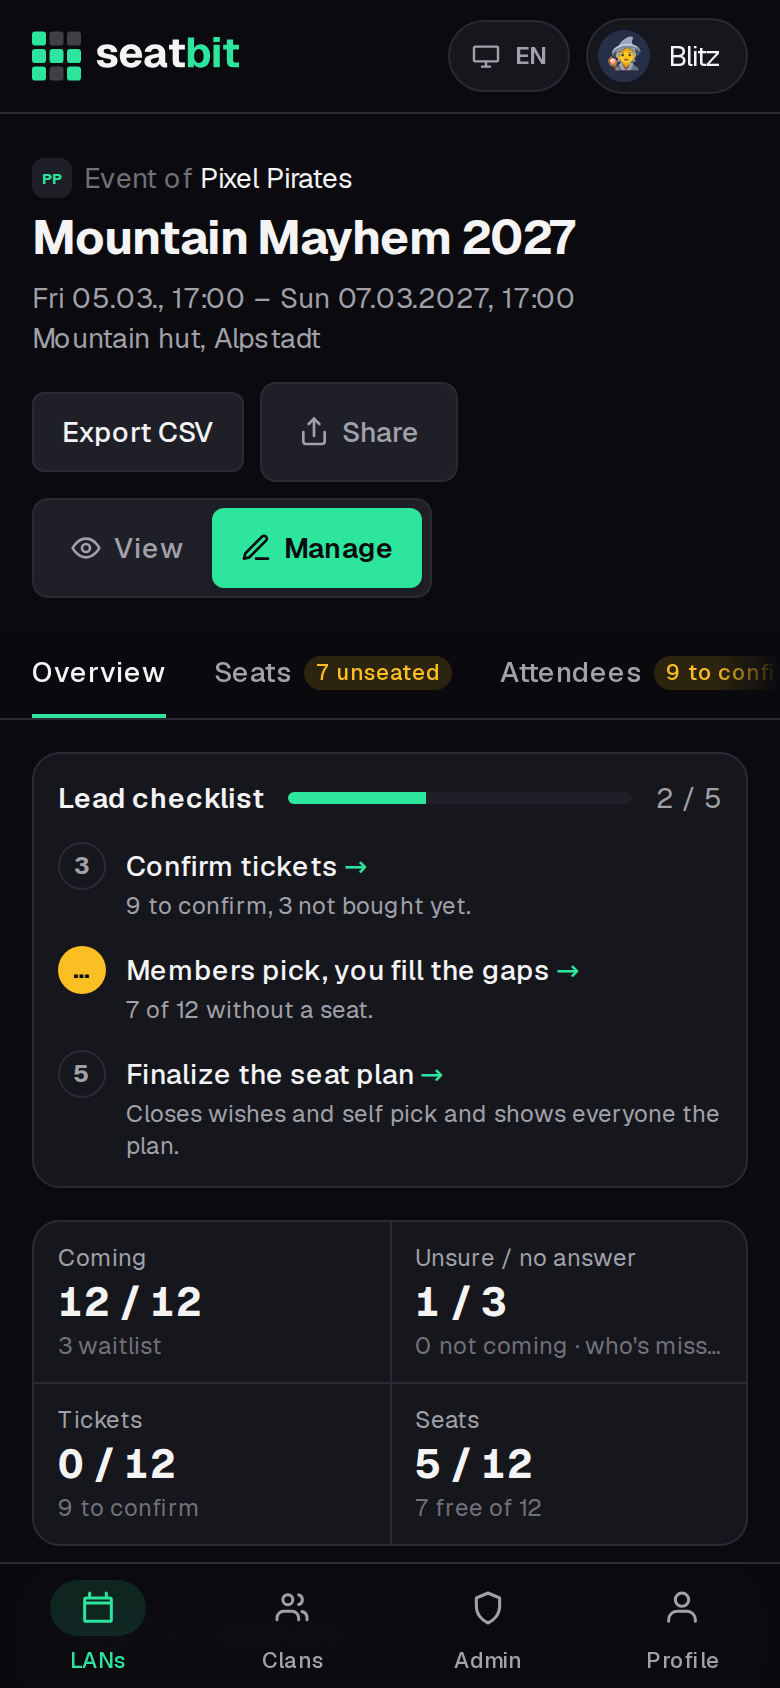
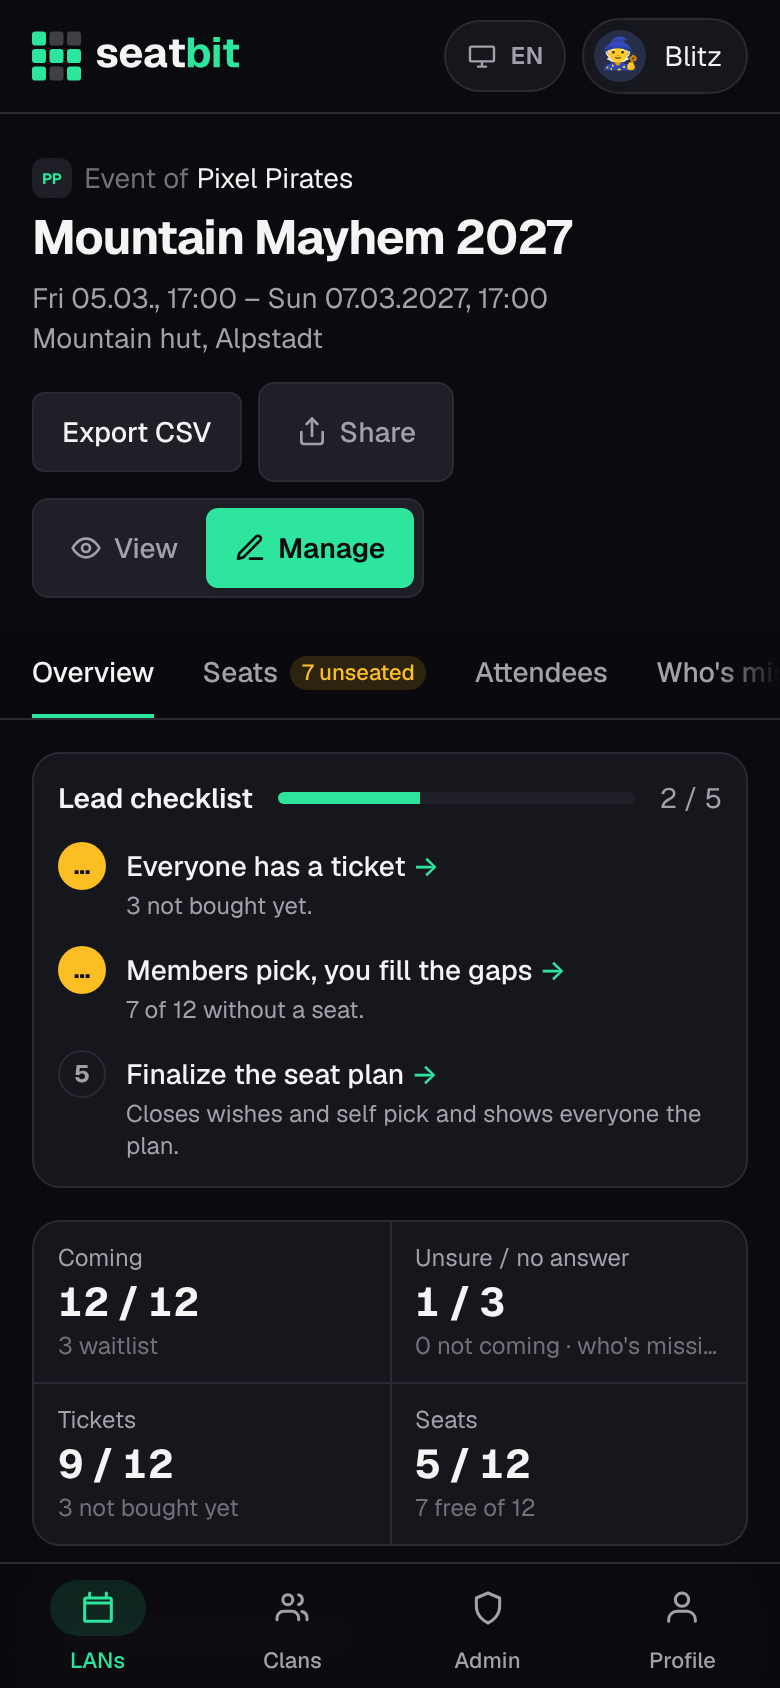
Tickets are trust based: a member's "I have my ticket" counts
No lead confirmation step any more: the member checklist ticket step is
done once the member ticks it, the lead checklist waits only for people
without a ticket, Who's missing drops "ticket to confirm", and the
Attendees badge, filter and pills follow. A lead's Ticket ok tick sets
the ticket for someone (e.g. a guest).

Claude-Session: https://claude.ai/code/session_01Mn3pyoKV5mVXfXu1PoqMQW

diff --git a/src/app/lans/[id]/manage/page.tsx b/src/app/lans/[id]/manage/page.tsx
@@ -165,8 +165,8 @@ export default async function ManageLanPage({ params, searchParams }: PageProps<
   const wishChecks = checkWishes(seats, planPeople, (uid) => names.get(uid) ?? "?", t);
   const wishNotes = going.filter((r) => r.wishNote);
   const now = new Date();
-  const ticketsConfirmed = going.filter((r) => r.paid).length;
-  const ticketsReported = going.filter((r) => !r.paid && r.ticketBought).length;
+  // Trust based: the member's own "I have my ticket" counts.
+  const withTicket = going.filter((r) => r.ticketBought || r.paid).length;
   const seated = going.filter((r) => seatOf.has(r.userId)).length;
   const freeSeats = seats.filter((s) => !s.userId && !s.locked).length;
   const count = (st: string) => rows.filter((r) => r.status === st).length;
@@ -193,8 +193,7 @@ export default async function ManageLanPage({ params, searchParams }: PageProps<
   const leadSteps = buildLeadChecklist({
     lan: l,
     going: going.length,
-    ticketsToConfirm: ticketsReported,
-    ticketsConfirmed,
+    withTicket,
     seats: seats.length,
     seated,
     booked: bookedCount,
@@ -384,9 +383,7 @@ export default async function ManageLanPage({ params, searchParams }: PageProps<
           id,
           label: t(label),
           badge:
-            id === "attendees" && ticketsReported
-              ? t("manage.badge.toConfirm", { count: ticketsReported })
-              : id === "missing" && memberMissing
+            id === "missing" && memberMissing
                 ? `${memberMissing}`
                 : id === "seats" && swapsToApprove
                   ? t("manage.badge.swaps", { count: swapsToApprove })
@@ -447,8 +444,8 @@ export default async function ManageLanPage({ params, searchParams }: PageProps<
             />
             <Stat
               label={t("bot.tickets")}
-              value={`${ticketsConfirmed} / ${going.length}`}
-              sub={t("manage.badge.toConfirm", { count: ticketsReported })}
+              value={`${withTicket} / ${going.length}`}
+              sub={t("leadSteps.notBought", { count: going.length - withTicket })}
               href={`/lans/${l.id}/manage?tab=attendees`}
             />
             <Stat
@@ -589,7 +586,7 @@ export default async function ManageLanPage({ params, searchParams }: PageProps<
                       name: names.get(r.userId) ?? "?",
                       lanAccount: lanIds.get(r.userId) || undefined,
                       profileUrl: profileLink(profilePat, lanIds.get(r.userId)) ?? undefined,
-                      ticket: r.paid ? ("ok" as const) : r.ticketBought ? ("reported" as const) : ("open" as const),
+                      ticket: r.paid || r.ticketBought ? ("ok" as const) : ("open" as const),
                       wishes: w ? { ok: w.ok, missed: w.missed } : undefined,
                     };
                   })

diff --git a/src/lib/lead-checklist.ts b/src/lib/lead-checklist.ts
@@ -8,9 +8,8 @@ export type LeadStep = { key: string; title: string; state: StepState; hint: str
 export function buildLeadChecklist(input: {
   lan: Lan;
   going: number;
-  /** Tickets reported by members, waiting for a lead to confirm. */
-  ticketsToConfirm: number;
-  ticketsConfirmed: number;
+  /** Coming and said they have a ticket (or a lead ticked it). */
+  withTicket: number;
   seats: number;
   seated: number;
   /** Seated people whose seat a lead ticked as booked on the event site. */
@@ -21,7 +20,7 @@ export function buildLeadChecklist(input: {
   t?: T;
 }): LeadStep[] {
   const t = input.t ?? makeT("en");
-  const { lan: l, going, ticketsToConfirm, ticketsConfirmed, seats, seated, booked, spotsToFill, swapsToApprove } = input;
+  const { lan: l, going, withTicket, seats, seated, booked, spotsToFill, swapsToApprove } = input;
   const base = `/lans/${l.id}/manage`;
   const final = !!l.seatsPublishedAt;
   const steps: LeadStep[] = [];
@@ -60,22 +59,18 @@ export function buildLeadChecklist(input: {
     });
   }
 
-  const openTickets = going - ticketsConfirmed - ticketsToConfirm;
+  // Trust based: a member's "I have my ticket" counts, the leads only wait for the rest.
+  const openTickets = going - withTicket;
   steps.push({
     key: "tickets",
     title: t("leadSteps.tickets"),
-    state: going > 0 && ticketsConfirmed === going ? "done" : ticketsToConfirm > 0 ? "todo" : "pending",
+    state: going > 0 && openTickets === 0 ? "done" : "pending",
     hint:
       going === 0
         ? t("leadSteps.nobody")
-        : ticketsConfirmed === going
+        : openTickets === 0
           ? t("leadSteps.allConfirmed", { count: going })
-          : [
-              ticketsToConfirm > 0 && t("leadSteps.toConfirm", { count: ticketsToConfirm }),
-              openTickets > 0 && t("leadSteps.notBought", { count: openTickets }),
-            ]
-              .filter(Boolean)
-              .join(", ") + ".",
+          : t("leadSteps.notBought", { count: openTickets }) + ".",
     href: `${base}?tab=attendees`,
   });
 

diff --git a/src/components/attendance-table.tsx b/src/components/attendance-table.tsx
@@ -55,8 +55,7 @@ const statusOrder: Record<AttendanceStatus, number> = { going: 0, waitlist: 1, m
 /** Extra "who still needs something" filters on top of the status chips. */
 const needs = {
   all: { label: "attendees.need.all", test: () => true },
-  ticketOpen: { label: "attendees.need.ticketOpen", test: (r: AttendanceRow) => r.status !== "declined" && !r.paid },
-  ticketReported: { label: "attendees.need.ticketReported", test: (r: AttendanceRow) => r.ticketBought && !r.paid },
+  ticketOpen: { label: "attendees.need.ticketOpen", test: (r: AttendanceRow) => r.status !== "declined" && !r.paid && !r.ticketBought },
   noSeat: { label: "attendees.need.noSeat", test: (r: AttendanceRow) => r.status === "going" && !r.seatId },
   notBooked: {
     label: "attendees.need.notBooked",
@@ -293,14 +292,13 @@ export function AttendanceTable({
               <label className="col-span-2 flex min-h-10 cursor-pointer items-center gap-2 rounded-md border border-line px-3 py-2 text-sm sm:col-span-1 sm:self-end lg:self-auto">
                 <input
                   type="checkbox"
-                  key={String(r.paid)}
-                  defaultChecked={r.paid}
+                  key={String(r.paid || r.ticketBought)}
+                  defaultChecked={r.paid || r.ticketBought}
                   onChange={(e) => run(() => adminSetPaid(r.id, e.target.checked))}
                   className="h-5 w-5 accent-bit"
                 />
                 <span>
                   {t("attendees.ticketOk")}
-                  {r.ticketBought && !r.paid && <span className="ml-1 text-xs text-warn">({t("attendees.reported")})</span>}
                 </span>
               </label>
               <label className="block">

diff --git a/src/i18n/messages/de.ts b/src/i18n/messages/de.ts
@@ -735,9 +735,9 @@ export const de: Messages = {
     seatsHint: "Trag den Platzblock ein, den das Event der Gruppe gegeben hat.",
     waitlist: "Leute von der Warteliste nachrücken lassen",
     spotsFree: { one: "Ein Platz ist frei.", other: "{count} Plätze sind frei." },
-    tickets: "Tickets bestätigen",
+    tickets: "Alle haben ein Ticket",
     nobody: "Noch kommt niemand.",
-    allConfirmed: "Alle {count} bestätigt.",
+    allConfirmed: "Alle {count} haben eins.",
     toConfirm: "{count} zu bestätigen",
     notBought: "{count} noch nicht gekauft",
     assign: "Allen einen Platz geben",
@@ -797,8 +797,7 @@ export const de: Messages = {
     clearFilters: "Filter zurücksetzen",
     need: {
       all: "Alle",
-      ticketOpen: "Ticket nicht bestätigt",
-      ticketReported: "Ticket gemeldet, bestätigen",
+      ticketOpen: "Noch kein Ticket",
       noSeat: "Kommt, noch ohne Platz",
       notBooked: "Platz nicht auf Event-Seite gebucht",
       noLanId: "Keine LAN-ID",
@@ -2199,8 +2198,7 @@ export const de: Messages = {
     nick: { title: "Gib deinen Nickname an", done: "Nick ist gesetzt.", todo: "Gib den Nick an, der auf dem Sitzplan stehen soll." },
     ticket: {
       title: "Kauf dein Ticket",
-      done: "Von den Leads bestätigt.",
-      pending: "Wartet auf Bestätigung durch einen Lead.",
+      done: "Du hast dein Ticket.",
       todo: "Kauf es beim Event und hak es dann hier ab.",
       waitlist: "Warte mit dem Kauf, bis du von der Warteliste nachrückst.",
     },

diff --git a/src/i18n/messages/en.ts b/src/i18n/messages/en.ts
@@ -734,9 +734,9 @@ export const en = {
     seatsHint: "Add the seat block the event gave the group.",
     waitlist: "Move people up from the waitlist",
     spotsFree: { one: "A spot is free.", other: "{count} spots are free." },
-    tickets: "Confirm tickets",
+    tickets: "Everyone has a ticket",
     nobody: "Nobody is coming yet.",
-    allConfirmed: "All {count} confirmed.",
+    allConfirmed: "All {count} have one.",
     toConfirm: "{count} to confirm",
     notBought: "{count} not bought yet",
     assign: "Seat everyone",
@@ -796,8 +796,7 @@ export const en = {
     clearFilters: "Clear filters",
     need: {
       all: "Everyone",
-      ticketOpen: "Ticket not confirmed",
-      ticketReported: "Ticket reported, confirm it",
+      ticketOpen: "No ticket yet",
       noSeat: "Coming, no seat yet",
       notBooked: "Seat not booked on event site",
       noLanId: "No LAN ID",
@@ -2185,8 +2184,7 @@ export const en = {
     nick: { title: "Give your nickname", done: "Nick is set.", todo: "Add the nick you want on the seat plan." },
     ticket: {
       title: "Buy your ticket",
-      done: "Confirmed by the leads.",
-      pending: "Waiting for a lead to confirm.",
+      done: "You have your ticket.",
       todo: "Buy it from the event, then tick it off here.",
       waitlist: "Wait until you move up from the waitlist before buying one.",
     },

diff --git a/src/app/lans/[id]/page.tsx b/src/app/lans/[id]/page.tsx
@@ -534,10 +534,8 @@ export default async function LanPage({ params, searchParams }: PageProps<"/lans
                   <div className="flex justify-between">
                     <dt className="text-muted">{t("event.yourTicket")}</dt>
                     <dd>
-                      {my.paid ? (
-                        <Pill tone="emerald">{t("event.ticketConfirmed")}</Pill>
-                      ) : my.ticketBought ? (
-                        <Pill tone="amber">{t("event.ticketReported")}</Pill>
+                      {my.paid || my.ticketBought ? (
+                        <Pill tone="emerald">{t("event.ticketOk")}</Pill>
                       ) : (
                         <Pill tone="red">{t("event.ticketOpen")}</Pill>
                       )}
@@ -731,7 +729,7 @@ function AttendeeList({
           </a>
         )}
         {seatOf.get(a.userId) && <Pill>{seatOf.get(a.userId)}</Pill>}
-        {showPaid && (a.paid ? <Pill tone="emerald">{t("event.ticketOk")}</Pill> : a.ticketBought ? <Pill tone="amber">{t("event.reported")}</Pill> : <Pill tone="red">{t("event.noTicket")}</Pill>)}
+        {showPaid && (a.paid || a.ticketBought ? <Pill tone="emerald">{t("event.ticketOk")}</Pill> : <Pill tone="red">{t("event.noTicket")}</Pill>)}
       </span>
     </li>
   );

diff --git a/src/app/actions.ts b/src/app/actions.ts
@@ -495,7 +495,8 @@ export async function adminSetPaid(attendanceId: string, paid: boolean) {
   const a = db.select().from(attendance).where(eq(attendance.id, attendanceId)).get();
   if (!a) return;
   const me = await requireLanManager(a.lanId);
-  db.update(attendance).set({ paid }).where(eq(attendance.id, attendanceId)).run();
+  // Trust based: the lead's tick is the same as the member's "I have my ticket" (e.g. for a guest), not a confirmation step.
+  db.update(attendance).set({ paid, ticketBought: paid }).where(eq(attendance.id, attendanceId)).run();
   if (a.paid !== paid) auditLan(mustGetLan(a.lanId), me.id, "ticket.confirm", { targetUserId: a.userId, data: { paid } });
   refreshLanMessagesSoon(a.lanId);
   lanPath(a.lanId);

diff --git a/src/lib/checklist.ts b/src/lib/checklist.ts
@@ -66,12 +66,11 @@ export function buildChecklist(input: {
   steps.push({
     key: "ticket",
     title: t("checklist.ticket.title"),
-    state: a?.paid ? "done" : a?.ticketBought ? "pending" : "todo",
-    hint: a?.paid
+    // Trust based: the member's own "I have my ticket" is enough, no lead confirmation needed.
+    state: hasTicket ? "done" : "todo",
+    hint: hasTicket
       ? t("checklist.ticket.done")
-      : a?.ticketBought
-        ? t("checklist.ticket.pending")
-        : a?.status === "waitlist"
+      : a?.status === "waitlist"
           ? t("checklist.ticket.waitlist")
           : t("checklist.ticket.todo"),
   });

diff --git a/src/lib/missing.ts b/src/lib/missing.ts
@@ -143,9 +143,8 @@ export function whoIsMissing(l: Lan): MissingGroup[] {
     }
     for (const r of rows) {
       if (r.status !== "going" && r.status !== "waitlist") continue;
-      // Waitlisted people aren't chased for a ticket, but one they reported still needs confirming.
+      // Waitlisted people aren't chased for a ticket. Trust based: a reported ticket needs no confirming.
       if (!r.paid && !r.ticketBought && r.status === "going") add("ticket", r.userId);
-      else if (!r.paid && r.ticketBought) add("confirm", r.userId);
     }
     for (const r of going) {
       if (!withNick.has(r.userId)) add("nick", r.userId);

diff --git a/docs/features/attendance.md b/docs/features/attendance.md
@@ -2,7 +2,7 @@
 
 Members answer whether they come, work through their checklist and report their ticket; leads see everyone in one list.
 
-**Who:** members answer; leads confirm tickets and can change any answer · **Where:** the event page (top card); *Manage → Attendees*
+**Who:** members answer and tick off their ticket; leads can change any answer · **Where:** the event page (top card); *Manage → Attendees*
 
 <div class="phones" markdown>
 <figure markdown>
@@ -43,7 +43,7 @@ When someone stops coming (or a lead raises the spots), what happens depends on 
 
 Turning *Next in line moves up* back on fills the free spots right away.
 
-People on the waitlist get no ticket reminders or nudges, and their checklist says to wait with buying one until they move up: without a spot in the group's block a ticket may be wasted money. If they already bought one, they can still tick it off and the leads can confirm it.
+People on the waitlist get no ticket reminders or nudges, and their checklist says to wait with buying one until they move up: without a spot in the group's block a ticket may be wasted money. If they already bought one, they can still tick it off.
 
 While people are waiting, a new *Coming* answer always queues up behind them, even when a spot is free, so nobody jumps the line.
 
@@ -74,7 +74,7 @@ Your checklist sits above the tabs on every tab of the event, on the LANs list (
 | --- | --- |
 | 1. **Say you're coming** | You answered *Coming*. On the waitlist it shows your place (*You're #2 on the waitlist*). |
 | 2. **Give your nickname** | You have a nick (default, LAN type or event). |
-| 3. **Buy your ticket** | You ticked *I bought my ticket* before the *buy ticket by* date; a lead then confirms it. |
+| 3. **Buy your ticket** | You ticked *I have my ticket* before the *buy ticket by* date. That's enough: the leads trust it and don't confirm it. |
 | 4. **Pick your seat** | Only when the leads turned on [self pick](seats.md#seat-steps): you took a free seat (the step then reads *Seat F8 picked*). Needs your ticket first. While self pick is on, the Seats tab shows *pick yours* in yellow until you have a seat, then your seat in green. |
 | 4. **Send seat wishes** (optional) | Instead of *Pick your seat* when self pick is off: you sent [seat wishes](seats.md#seat-steps). Hidden once the plan is final if you sent none. |
 | 5. **Leads confirm your seat** | The leads finalized the seat plan and you have a seat. Until then it waits on them (also after you picked your own seat). With an event seat plan, the hint says whether the leads already [booked it there](seats.md#book-on-the-event-site). |
@@ -91,8 +91,9 @@ At the bottom of the Overview tab, one line shows the nick and LAN ID you have a
 
 ## Tickets
 
-1. The member ticks **I bought my ticket**.
-2. A lead confirms it with **Ticket ok** on the Attendees tab.
+Tickets are trust based: when a member ticks **I have my ticket** (on the event page or with `/ticket` on Discord), it counts. Leads don't confirm it.
+
+A lead can tick **Ticket ok** on the Attendees tab for someone, e.g. a guest without a login. That counts the same and keeps the member from unticking it.
 
 Reminders go to people coming without a ticket before the *buy ticket by* date. See [Reminders](reminders.md).
 

diff --git a/docs/features/discord.md b/docs/features/discord.md
@@ -49,7 +49,7 @@ Members can do the everyday things straight from Discord, in the clan's server o
 | --- | --- |
 | `/coming`, `/unsure`, `/not-coming` | Answer for an event. During an interest check, this answers *Would you come?* instead. If several events are open, the bot asks which one with a button each, or pick one with `event:`. |
 | `/status` | Your next events with your answer and the same checklist as on the event page (nick, ticket, seat pick or wishes, seat confirmed by the leads, games), your seat wishes and the next deadline. `/status event:<name>` shows one event with buttons like **Coming** and **I have my ticket**. |
-| `/ticket` | Tick off that you bought your ticket. `bought:False` takes it back until a lead confirmed it. |
+| `/ticket` | Tick off that you bought your ticket. `bought:False` takes it back, unless a lead ticked it for you. |
 | `/nick nick:<nick>` | Your default nick. With `event:` it's your nick for that event's LAN type (or that one event, if it has no type). |
 | `/wish` | Shows your seat wishes. Change them with `near:` and `avoid:` (one person each time, suggested from the people who answered), `position:` (anywhere, edge, middle), `seat:` and `note:`. `clear:True` starts over. Closes when the seat plan is final. |
 | `/lans` | Your upcoming LANs of this server's clan (in DMs: all your clans) with answer buttons. Only you see it. |

diff --git a/docs/features/events.md b/docs/features/events.md
@@ -122,7 +122,7 @@ The top of *Manage → Overview* lists what the leads still have to do for the e
 | **Open sign-up** | Only during an [interest check](#interest-check): you opened sign-up. |
 | **Enter the group's seats** | The seat block is entered. |
 | **Move people up from the waitlist** | Only when you move people up by hand and a spot is free. |
-| **Confirm tickets** | Every ticket of everyone coming is confirmed. Waits on members while nobody reported one. |
+| **Everyone has a ticket** | Everyone coming ticked *I have my ticket* (or a lead ticked it for them). Waits on members, nothing to confirm. |
 | **Seat everyone** | Everyone coming has a seat. With self pick on: *Members pick, you fill the gaps*. |
 | **Finalize the seat plan** | The plan is final. |
 | **Book the seats on the event site** | Only with an event seat plan link: every seat is ticked as booked. See [Seats](seats.md#book-on-the-event-site). |
